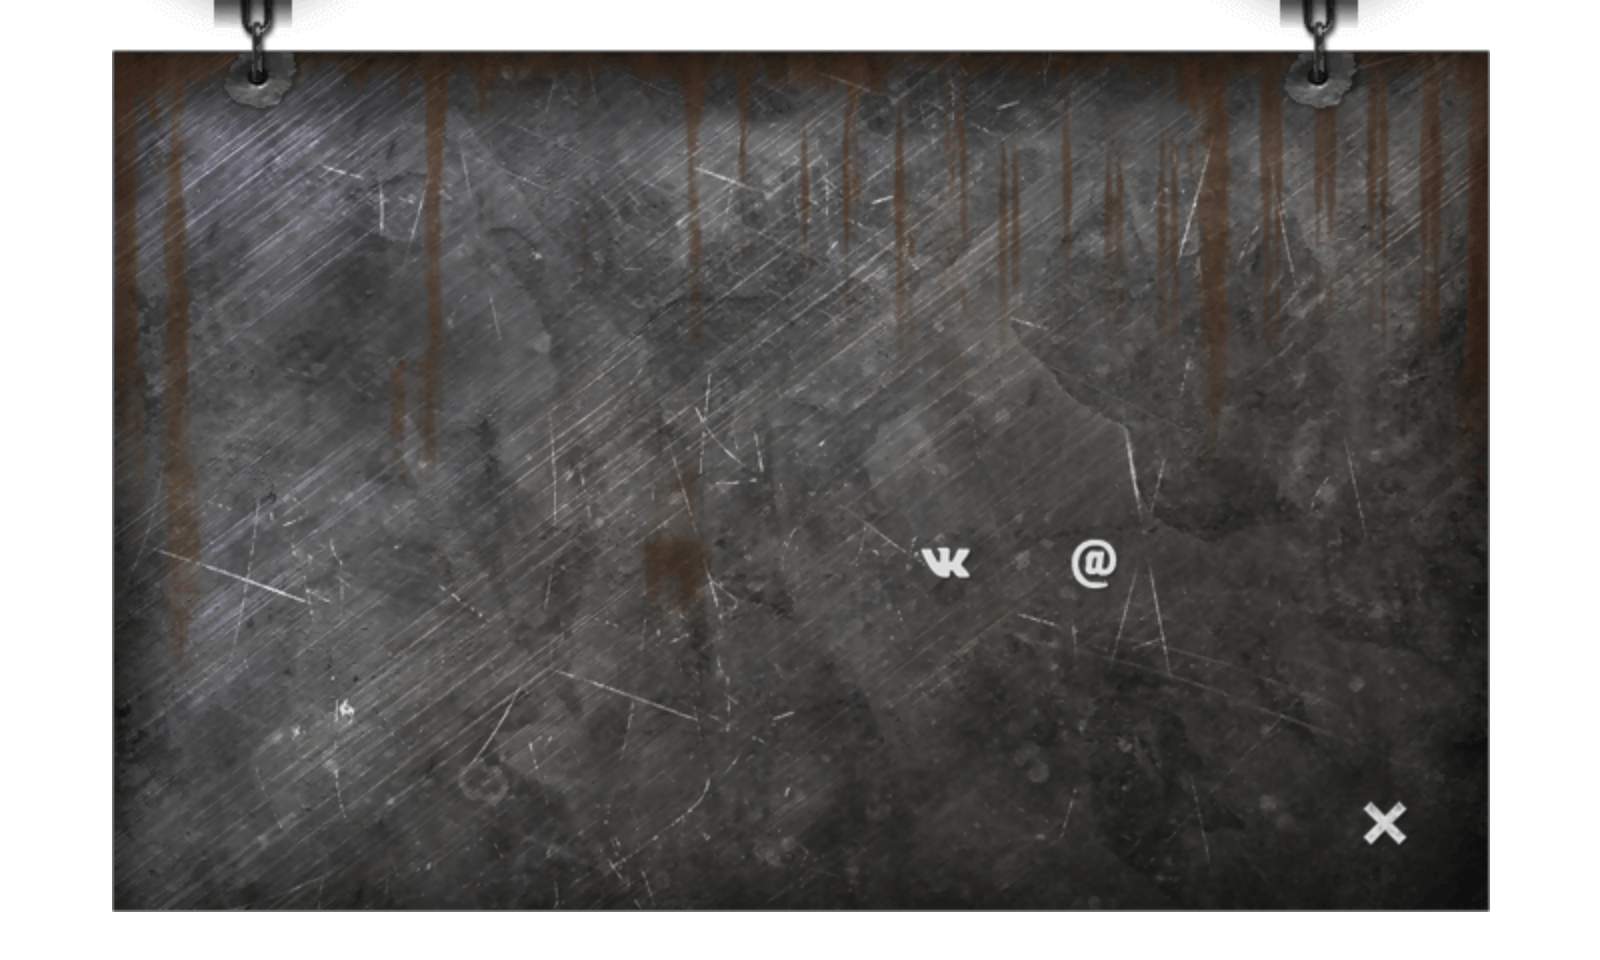
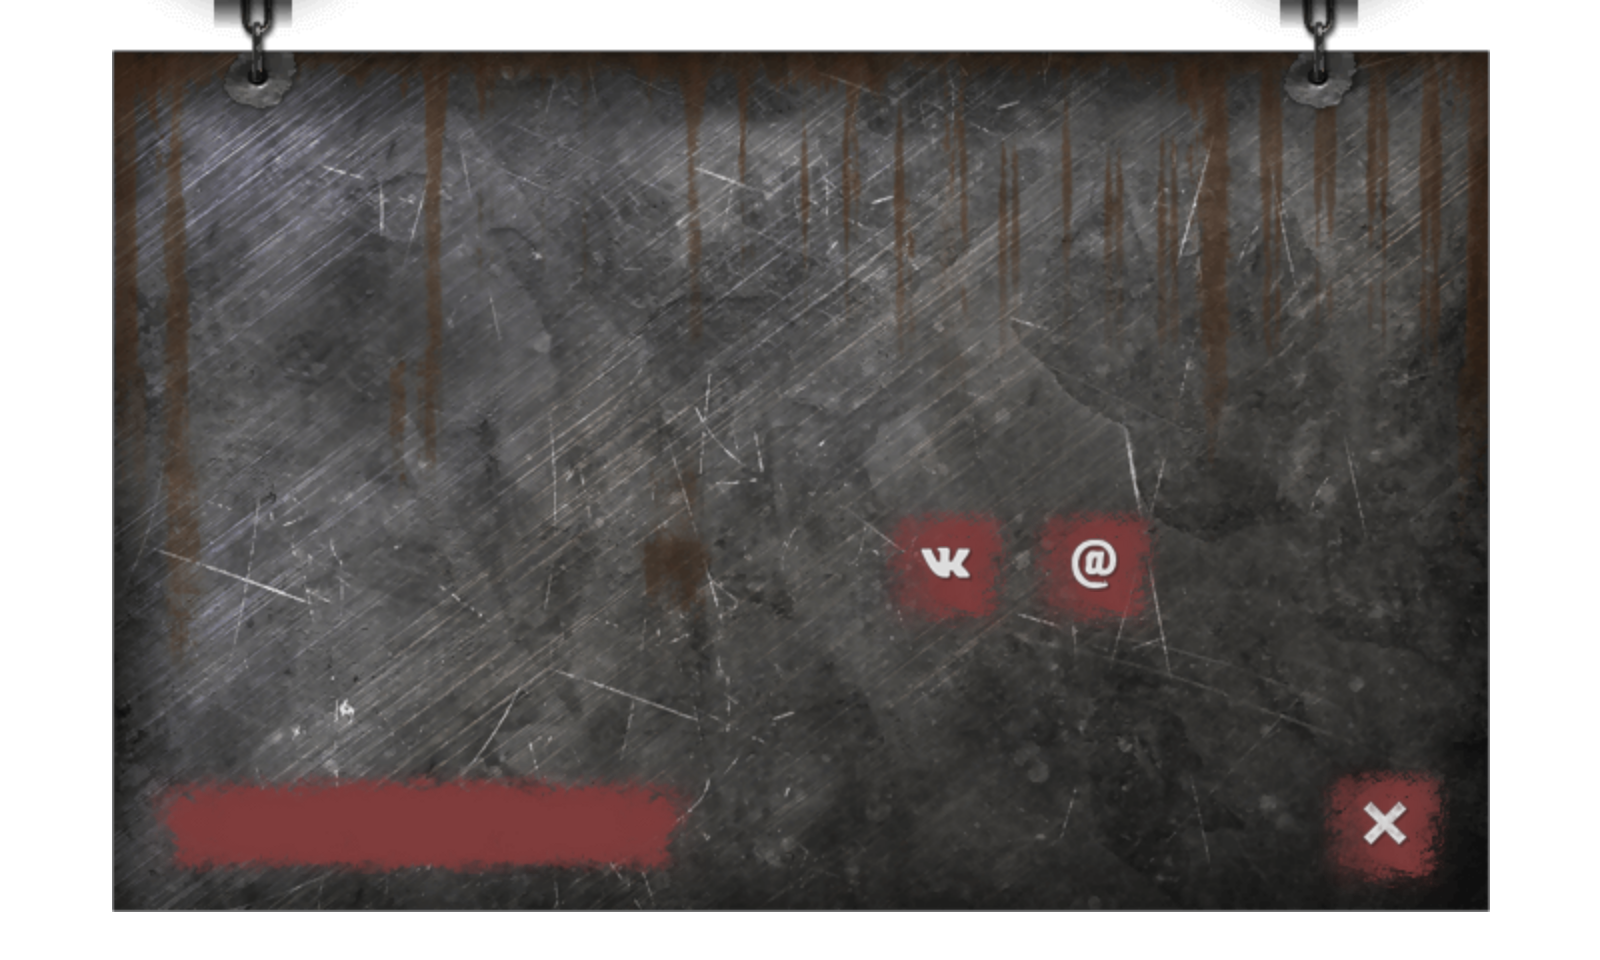
Правки загрузки локалей

diff --git a/tools/flash_ui_regression_test.py b/tools/flash_ui_regression_test.py
@@ -1,0 +1,19 @@
+"""Check the actual exported pixels of the Flash UI, not just clickable regions."""
+from pathlib import Path
+from PIL import Image
+ART=Path(__file__).resolve().parents[1]/'assets/flash_ui'
+def red_pixels(image,box):
+ return sum(a>100 and r>g*1.4 and r>b*1.3 for r,g,b,a in image.crop(box).get_flattened_data())
+def visible_pixels(image,box):
+ return sum(a>100 for r,g,b,a in image.crop(box).get_flattened_data())
+for name in ['adaptive_menu','adaptive_menu_off']:
+ with Image.open(ART/(name+'.png')) as im:
+  im=im.convert('RGBA')
+  for y in [51,110,168,226]:assert red_pixels(im,(308,y*2,688,(y+43)*2))>10000,(name,y)
+  for x in [441,511]:assert red_pixels(im,(x*2,398,(x+60)*2,518))>2000,(name,x)
+for i in range(12):
+ with Image.open(ART/f'adaptive_selector_{i}.png') as im:
+  assert visible_pixels(im.convert('RGBA'),(620,702,1030,798))>10000,('selector',i)
+with Image.open(ART/'adaptive_help.png') as im:
+ assert visible_pixels(im.convert('RGBA'),(126,746,770,878))>10000,'help button'
+print('PASS: menu red buttons, sound/achievements, all selector Start brushes and help button')

diff --git a/tools/render_flash_ui.py b/tools/render_flash_ui.py
@@ -76,8 +76,15 @@ class Renderer:
      out.append(f'<path d="{pen.getCommands()}" fill="{attrs.get("fillColor","#ffffff")}" fill-opacity="{attrs.get("alpha","1")}"/>');x+=font['hmtx'][name][0]*scale
     y+=float(attrs.get('size','24'))+float(attrs.get('lineSpacing','0'))
   return ''.join(out)
+ def display_frame(self,name,frame):
+  root=self.root(name)
+  if frame==0 and root.get('symbolType')=='button':
+   frames=[int(f.get('index','0')) for f in root.findall('./x:timeline/x:DOMTimeline/x:layers/x:DOMLayer/x:frames/x:DOMFrame',NS)]
+   if frames and min(frames)>0:return min(frames)
+  return frame
  def symbol(self,name,frame=0,overrides=None,hide=None,path='',depth=0):
   if depth>35:return ''
+  frame=self.display_frame(name,frame)
   overrides=overrides or {};hide=hide or set();root=self.root(name);out=[]
   layers=root.findall('./x:timeline/x:DOMTimeline/x:layers/x:DOMLayer',NS)
   for layer in reversed(layers):

diff --git a/tools/build_episode2_content.py b/tools/build_episode2_content.py
@@ -11,6 +11,7 @@ from render_flash_ui import Renderer,NS
 CLASSES={'hospital':2443,'roof':2281,'first':2216,'hall':2077,'back':2010,'main':2145,'lift':2301,'attack':2020,'boom':2652}
 AS={'hospital':'Episode2','roof':'StairsToTheRoof','first':'ToFirstFloor','hall':'ToTheKilling','back':'ZombieOnTheBack','main':'ToMainPart','lift':'LiftCall','attack':'ZombieAttackKill','boom':'MovBoom'}
 def active_elements(r,symbol,frame):
+ frame=r.display_frame(symbol,frame)
  for layer in r.root(symbol).findall('./x:timeline/x:DOMTimeline/x:layers/x:DOMLayer',NS):
   frames=[f for f in layer.findall('./x:frames/x:DOMFrame',NS) if int(f.get('index','0'))<=frame]
   if frames:

diff --git a/docs/LOCALIZATION.md b/docs/LOCALIZATION.md
@@ -19,7 +19,7 @@
 
 В JSON хранятся ссылки вида `@loc:episode3.nodes.e3_john_1.data.text`. Игровые идентификаторы и связи между блоками сохранены. Ключи привязаны к идентификатору блока и пути поля; не переименовывайте блок ради изменения текста. Удалённые ключи остаются в таблице, чтобы случайно не потерять перевод; их можно убрать вручную после проверки ссылок.
 
-Изменения CSV подхватываются при следующем запуске игры или открытии графа. Для русских текстов можно редактировать таблицу напрямую, а затем снова открыть граф в редакторе. Не сохраняйте одновременно старую открытую версию графа после внешнего редактирования CSV.
+Изменения CSV подхватываются после их импорта Godot, при следующем запуске игры или открытии графа. Для русских текстов можно редактировать таблицу напрямую, а затем снова открыть граф в редакторе. Не сохраняйте одновременно старую открытую версию графа после внешнего редактирования CSV.
 
 ## Язык игры
 
@@ -31,7 +31,7 @@ TranslationServer.set_locale("en")
 
 Открытый игровой экран перерисовывается с переводом. Прогресс, переменные, состояние QTE и пауза сохраняются. Отдельная кнопка выбора языка этим патчем не добавляется.
 
-Штатный импорт CSV сохранён с `compress=0`: это позволяет держать пока пустые языковые колонки без ошибки сжатия пустой таблицы. Игра читает исходные CSV и регистрирует переводы сама, поэтому добавлять ресурсы `.translation` в Project Settings вручную не требуется. Не подключайте те же таблицы повторно. Файлы `.translation` генерируются Godot и не являются источником текста. CSV включены в Android-экспорт явно.
+Штатный импорт CSV сохранён с `compress=0`: это позволяет держать пока пустые языковые колонки без ошибки сжатия пустой таблицы. В редакторе используются CSV, а в собранной игре — штатные импортированные ресурсы `.translation`. Загрузчик автоматически регистрирует их и поддерживает запасное чтение CSV; добавлять ресурсы в Project Settings вручную не требуется. Не подключайте те же таблицы повторно. Файлы `.translation` генерируются Godot и не являются источником текста. CSV включены в Android-экспорт явно.
 
 Подписи ранее запечённые в UI-картинках заменены нативными Label. `data/ui_text_layout.json` содержит только ключи и координаты; оформление остаётся в текстурах. Название игры в логотипе и текст внутри исходных фотографий остаются частью иллюстраций.
 

diff --git a/docs/UI_LOCALE_FIX.md b/docs/UI_LOCALE_FIX.md
@@ -1,0 +1,24 @@
+# Исправление подписей и Flash-кнопок
+
+Патч применяется поверх `zombie_locales_tables.patch`.
+
+Игра загружает импортированные Godot ресурсы `ui.*.translation` и `episodeN.*.translation` с известными именами таблиц. Загрузка не зависит от доступности исходных CSV или их отображения в списке файлов экспортированного проекта. Редактор продолжает читать и сохранять CSV. Дополнительные эпизоды автоматически обнаруживаются по JSON-графам и ресурсам переводов.
+
+У декомпилированных Flash SimpleButton обычное состояние в ряде символов начинается с кадра 1. Ранее экспорт выбирал кадр 0, где изображение отсутствует. Теперь экспортёр выбирает первый действительный кадр только у таких кнопок; кадры MovieClip и явно выбранные состояния сохранены.
+
+Восстановлены:
+- Четыре красные подложки «Эпизоды», «Тесты», «Справка», «Выход».
+- Красные подложки звука и достижений, при обоих состояниях звука.
+- Подложка кнопки версии без рекламы в справке.
+
+Проверены активные ресурсы выбора эпизода, паузы, результата и визуальные манифесты эпизодов I–III. Их кнопки уже экспортировались с явно выбранными кадрами. Два старых изображения `city_result` и `ep1_result_alive` также содержат ошибку кадра 0, но не используются текущим экраном результата: он использует `result_dead`/`result_alive` с правильными состояниями. Пересборка в дальнейшем исправляет и эти архивные изображения.
+
+Проверки:
+- Реальные пиксели красных подложек меню и наличие подложек всех 12 селекторов.
+- 2720 проверок локализации, включая чтение штатных импортированных ресурсов.
+- 521 проверка графа/редактора и 52 проверки UI.
+- Отдельный запуск экспортированного PCK без исходных CSV и без рабочей папки проекта: меню, выбор эпизода, справка и начало всех трёх эпизодов выводят тексты.
+
+Проверка графов также использует `ResourceLoader.exists()` для импортированных изображений и звуков вместо проверки наличия исходных PNG/MP3. Это сохраняет регистрацию эпизодов в экспортированной игре.
+
+APK на физическом устройстве в этой среде не запускался. После применения дождитесь завершения импорта CSV Godot и пересоберите APK.
